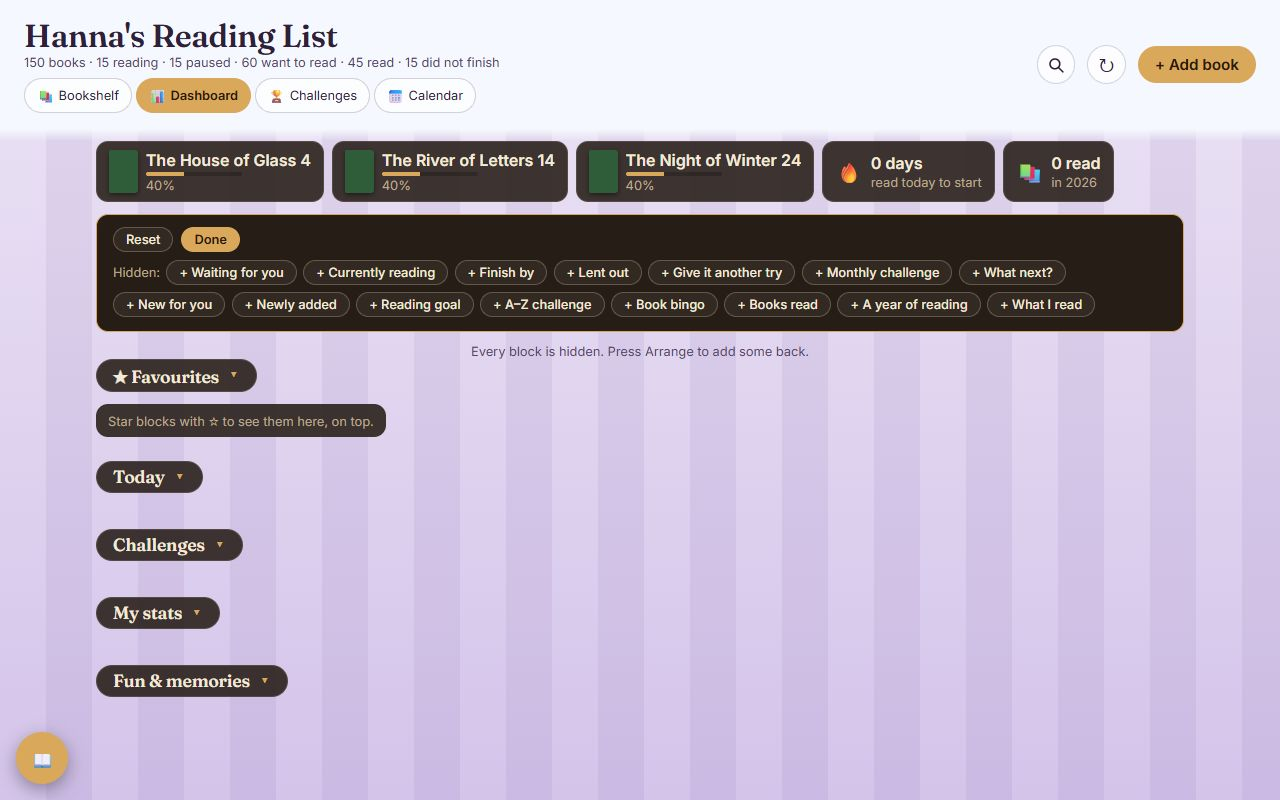
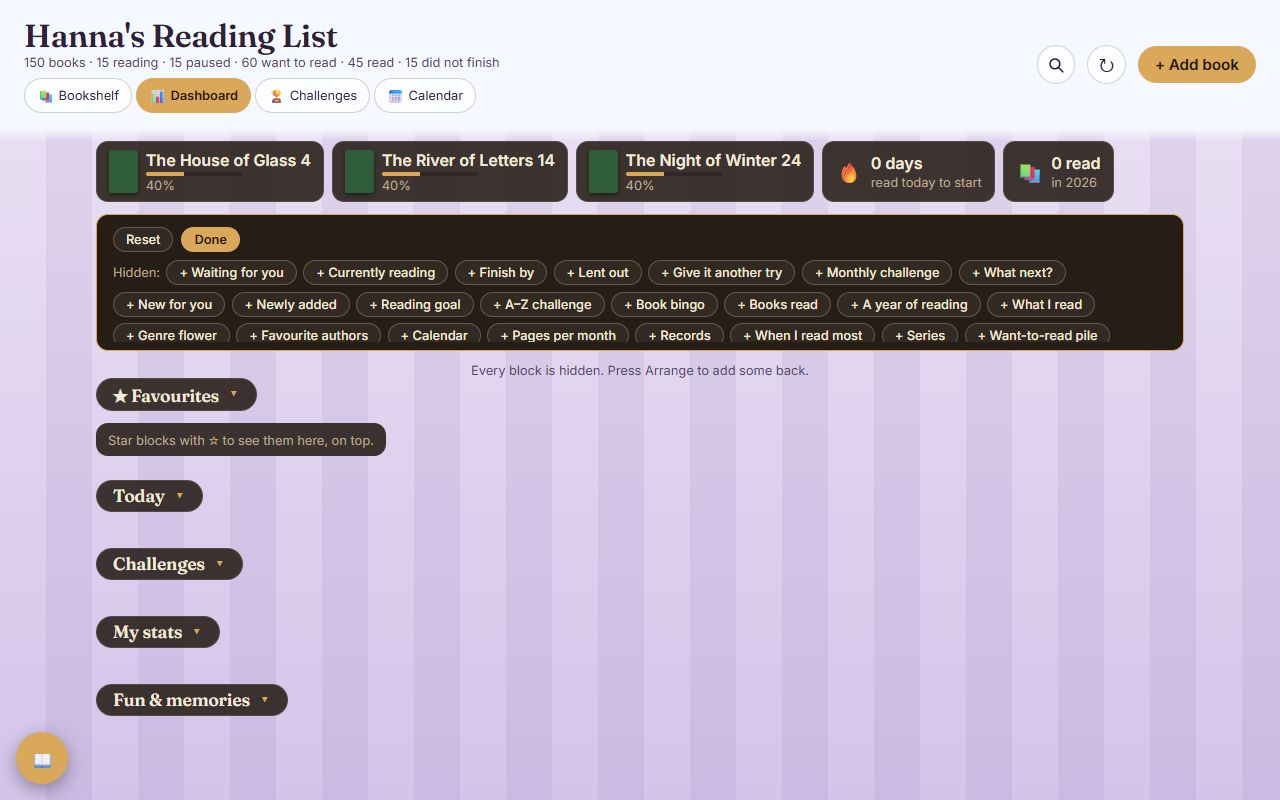
T-0038: Hidden chip area 2½ rows high, so the third row peeks out (UX must-fix)

Changed region(s): [[0.0625, 0.4062, 0.9375, 0.9062]]

diff --git a/src/styles.css b/src/styles.css
@@ -1686,8 +1686,9 @@ textarea.input {
   display: flex;
   gap: 0.5rem;
 }
-/* the Hidden chips scroll inside an area of about two chip rows, so the bar never grows taller
-   than the screen however many blocks are hidden (T-0038). A row is one .btn.small chip: its
+/* the Hidden chips scroll inside an area of two and a half chip rows, so the bar never grows taller
+   than the screen however many blocks are hidden (T-0038). The top half of a third row peeks out:
+   the only (text-free) sign that more chips scroll into view. A row is one .btn.small chip: its
    text, padding and border, or its finger height on a touch screen (below). The padding (taken
    back by the margin, so nothing moves) leaves room for a focused chip's outline. */
 .hidden-blocks {
@@ -1698,7 +1699,7 @@ textarea.input {
   flex-wrap: wrap;
   gap: var(--chip-gap);
   align-items: center;
-  max-height: calc(2 * var(--chip-row) + var(--chip-gap) + 2 * var(--space-1));
+  max-height: calc(2.5 * var(--chip-row) + 2 * var(--chip-gap) + 2 * var(--space-1));
   overflow-y: auto;
   padding: var(--space-1);
   margin: calc(-1 * var(--space-1));

diff --git a/src/styles.test.ts b/src/styles.test.ts
@@ -77,7 +77,8 @@ describe('the Arrange bar stays small (T-0038)', () => {
   it('the Hidden chips scroll inside an area of capped height', () => {
     const chips = rule('.hidden-blocks')
     expect(prop(chips, 'max-height')).toBeDefined()
-    expect(prop(chips, 'max-height')).toContain('var(--chip-row)')
+    // two and a half rows: the third row peeks out, the only sign that more chips are hidden
+    expect(prop(chips, 'max-height')).toContain('2.5 * var(--chip-row)')
     expect(prop(chips, 'overflow-y')).toBe('auto')
   })
 

diff --git a/docs/tasks/T-0038-arrange-bar-fit.md b/docs/tasks/T-0038-arrange-bar-fit.md
@@ -213,3 +213,10 @@ Verdict: one must-fix, a single CSS value; applied by the developer step below a
 - 2026-11-23 ux-designer: reviewed: one must-fix, the chip area's `max-height` becomes 2½ rows
   (`calc(2.5 * var(--chip-row) + 2 * var(--chip-gap) + 2 * var(--space-1))`) so the third row
   peeks out as the only sign more chips are hidden; everything else matches *Done when*.
+- 2026-11-23 developer: applied the UX must-fix (that one `max-height` in `src/styles.css`;
+  `src/styles.test.ts` now checks `2.5 * var(--chip-row)`, 8 passed). Focus script rerun on a
+  no-backend dev server (`focus-after-ux-fix.txt`): total **0** under the header or the bar in all
+  30 runs; bar with 30 hidden **173 px (20.5 %)** at 390 × 844, **173 px (21.6 %)** at 360 × 800,
+  **137 px (17.1 %)** at 1280 × 800; real clicks 30 of 30 Hide buttons and 30 of 30 chips; Tab 30 of
+  30 chips fully visible; no console errors, no sideways scroll. Screenshots retaken
+  (`screens-branch.txt`): the top half of the third chip row now shows at 390 and 1280.
